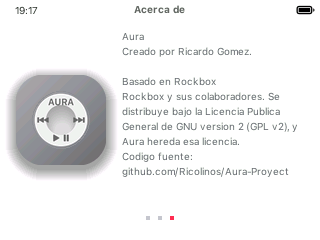
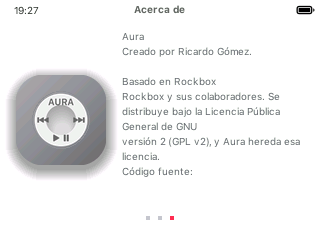
fix: tildes faltantes en el texto nuevo de creditos (AURA_STR_ABOUT_CREDITS_BODY)
Gomez->Gómez, Publica->Pública, version->versión, Codigo->Código,
esta->está. Contenido nuevo de esta sesion (D-283 3/4) que no seguia
la convencion de tildes del resto del archivo (verificado: el resto
de aura_lang.c si las usa; esto no es deuda heredada). Recapturadas
las capturas de creditos, confirmado el scroll por rueda mostrando
el resto del texto y la URL correctamente.

diff --git a/firmware/rockbox/apps/aura/aura_lang.c b/firmware/rockbox/apps/aura/aura_lang.c
@@ -219,7 +219,7 @@ static const char *const strings_es[AURA_STR_COUNT] = {
     [AURA_STR_REPEAT_SUMMARY_ALL]     = "Repetir todo",
     [AURA_STR_REPEAT_SUMMARY_ONE]     = "Repetir una",
 
-    [AURA_STR_ABOUT_CREDITS_BODY] = "Aura\nCreado por Ricardo Gomez.\n\nBasado en Rockbox\nRockbox y sus colaboradores. Se distribuye bajo la Licencia Publica General de GNU version 2 (GPL v2), y Aura hereda esa licencia.\nCodigo fuente:\ngithub.com/Ricolinos/Aura-Proyect\n\nSobre el hardware\niPod e iPod Classic son marcas de Apple Inc. Aura no esta afiliado, patrocinado ni respaldado por Apple.",
+    [AURA_STR_ABOUT_CREDITS_BODY] = "Aura\nCreado por Ricardo Gómez.\n\nBasado en Rockbox\nRockbox y sus colaboradores. Se distribuye bajo la Licencia Pública General de GNU versión 2 (GPL v2), y Aura hereda esa licencia.\nCódigo fuente:\ngithub.com/Ricolinos/Aura-Proyect\n\nSobre el hardware\niPod e iPod Classic son marcas de Apple Inc. Aura no está afiliado, patrocinado ni respaldado por Apple.",
     [AURA_STR_ABOUT_MY_IPOD]          = "Mi iPod",
     [AURA_STR_ABOUT_OTHER]            = "Otros",
     [AURA_STR_ABOUT_SYSTEM]           = "Sistema",
